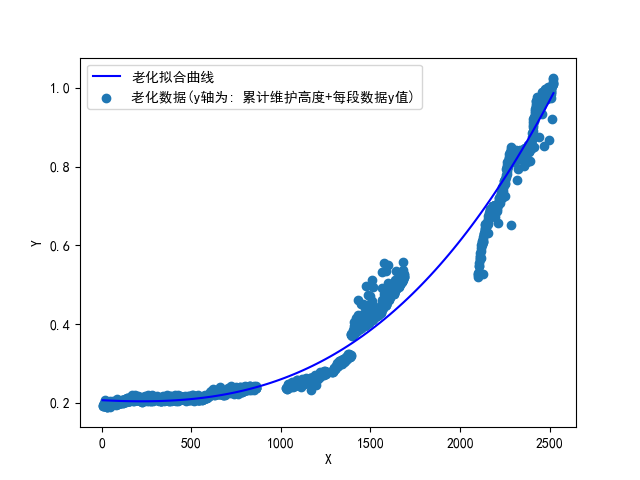
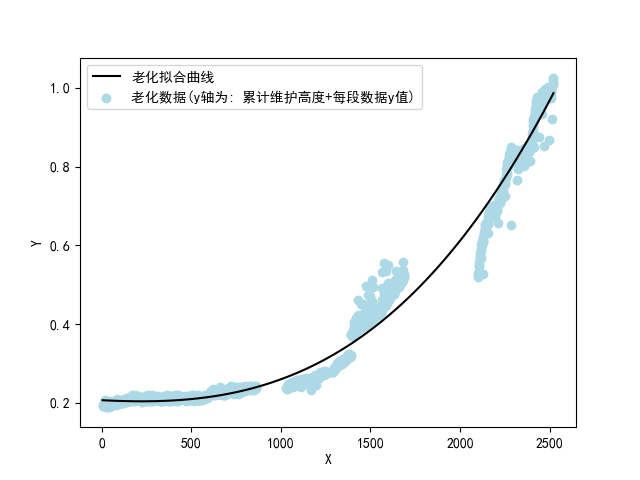
斜率计算

Changed region(s): [[0.1562, 0.5312, 0.6875, 0.875], [0.6875, 0.1562, 0.875, 0.5938], [0.1562, 0.1562, 0.1875, 0.2188]]

diff --git a/test.py b/test.py
@@ -2,90 +2,136 @@ import pandas as pd
 import numpy as np
 import matplotlib.pyplot as plt
 import function as F
-from scipy.interpolate import CubicSpline
 from scipy.optimize import curve_fit
 from pyswarm import pso
+
 # 设置字体
 from pylab import mpl
-mpl.rcParams['font.sans-serif']=['SimHei']
-mpl.rcParams['axes.unicode_minus']=False
+mpl.rcParams['font.sans-serif'] = ['SimHei']
+mpl.rcParams['axes.unicode_minus'] = False
 
 # 读取Excel文件
 data = pd.read_excel('data/C1.xlsx')
 
-# 第1~11个大段 (0~285)，并删除每段的离群点
-data_1 = data.iloc[0:287]; data_1 = data_1.dropna(); data_1 = F.Remove_outliers(data_1)
-data_2 = data.iloc[293:592]; data_2 = data_2.dropna(); data_2 = F.Remove_outliers(data_2)
-data_3 = data.iloc[592:856]; data_3 = data_3.dropna(); data_3 = F.Remove_outliers(data_3)
-data_4 = data.iloc[860:1018]; data_4 = data_4.dropna(); data_4 = F.Remove_outliers(data_4)
-data_5 = data.iloc[1022:1251];data_5 = data_5.dropna();data_5 = F.Remove_outliers(data_5)
-data_6 = data.iloc[1279:1685];data_6 = data_6.dropna(); data_6 = F.Remove_outliers(data_6)
-data_7 = data.iloc[1724:1882]; data_7 = data_7.dropna(); data_7 = F.Remove_outliers(data_7)
-data_8 = data.iloc[1892:2071];data_8 = data_8.dropna(); data_8 = F.Remove_outliers(data_8)
-data_9 = data.iloc[2078:2515]; data_9 = data_9.dropna(); data_9 = F.Remove_outliers(data_9)
-data_10 = data.iloc[2539:2734]; data_10 = data_10.dropna(); data_10 = F.Remove_outliers(data_10)
-data_11 = data.iloc[2738:2919];data_11 = data_11.dropna(); data_11 = F.Remove_outliers(data_11)
+# 删除每段的离群点并进行数据清洗
+data_segments = []
+for segment in [(0, 287), (293, 592), (592, 856), (860, 1018), (1022, 1251), (1279, 1685), (1724, 1882), (1892, 2071), (2078, 2515), (2539, 2734), (2738, 2919)]:
+    segment_data = data.iloc[segment[0]:segment[1]].dropna()
+    segment_data = F.Remove_outliers(segment_data)
+    data_segments.append(segment_data)
 
-# 拟合计入维护距离的实际性能曲线, 用1, 2, 3, 5, 6, 9段曲线
-age_x = np.concatenate([data_1.iloc[:,0], data_2.iloc[:,0], data_3.iloc[:,0], data_5.iloc[:,0], data_6.iloc[:,0], data_9.iloc[:,0]])
-age_y = np.concatenate([data_1.iloc[:,1],
-         data_2.iloc[:,1] + (data_1.iloc[-1,1] - data_2.iloc[0,1]),
-         data_3.iloc[:,1] + (data_1.iloc[-1,1] - data_2.iloc[0,1] + data_2.iloc[-1,1] - data_3.iloc[0,1]),
-         data_5.iloc[:,1] + (data_1.iloc[-1,1] - data_2.iloc[0,1] + data_2.iloc[-1,1] - data_3.iloc[0,1] + data_3.iloc[-1,1] - data_5.iloc[0,1]),
-         data_6.iloc[:,1] + (data_1.iloc[-1,1] - data_2.iloc[0,1] + data_2.iloc[-1,1] - data_3.iloc[0,1] + data_3.iloc[-1,1] - data_5.iloc[0,1] + data_5.iloc[-1,1] - data_6.iloc[0,1]),
-         data_9.iloc[:,1] + (data_1.iloc[-1,1] - data_2.iloc[0,1] + data_2.iloc[-1,1] - data_3.iloc[0,1] + data_3.iloc[-1,1] - data_5.iloc[0,1] + data_5.iloc[-1,1] - data_6.iloc[0,1] + data_6.iloc[-1,1] - data_9.iloc[0,1])])
+# 处理需要拟合的段（1, 2, 3, 5, 6, 9段）的数据
+age_x = np.concatenate([data_segments[i].iloc[:, 0] for i in [0, 1, 2, 4, 5, 8]])
+age_y = np.concatenate([
+    data_segments[0].iloc[:, 1],
+    data_segments[1].iloc[:, 1] + (data_segments[0].iloc[-1, 1] - data_segments[1].iloc[0, 1]),
+    data_segments[2].iloc[:, 1] + (data_segments[0].iloc[-1, 1] - data_segments[1].iloc[0, 1] + data_segments[1].iloc[-1, 1] - data_segments[2].iloc[0, 1]),
+    data_segments[4].iloc[:, 1] + (data_segments[0].iloc[-1, 1] - data_segments[1].iloc[0, 1] + data_segments[1].iloc[-1, 1] - data_segments[2].iloc[0, 1] + data_segments[2].iloc[-1, 1] - data_segments[4].iloc[0, 1]),
+    data_segments[5].iloc[:, 1] + (data_segments[0].iloc[-1, 1] - data_segments[1].iloc[0, 1] + data_segments[1].iloc[-1, 1] - data_segments[2].iloc[0, 1] + data_segments[2].iloc[-1, 1] - data_segments[4].iloc[0, 1] + data_segments[4].iloc[-1, 1] - data_segments[5].iloc[0, 1]),
+    data_segments[8].iloc[:, 1] + (data_segments[0].iloc[-1, 1] - data_segments[1].iloc[0, 1] + data_segments[1].iloc[-1, 1] - data_segments[2].iloc[0, 1] + data_segments[2].iloc[-1, 1] - data_segments[4].iloc[0, 1] + data_segments[4].iloc[-1, 1] - data_segments[5].iloc[0, 1] + data_segments[5].iloc[-1, 1] - data_segments[8].iloc[0, 1])
+])
 
 # 将数据转换为np.array
-age_x = np.array(age_x); age_y = np.array(age_y)
+age_x = np.array(age_x)
+age_y = np.array(age_y)
 
 # 用数据拟合模型
 age_params, age_params_covariance = curve_fit(F.model_func, age_x, age_y)
 age_x_fit = np.linspace(min(age_x), max(age_x), 100)
 age_y_fit = F.model_func(age_x_fit, *age_params)
 
-# 画出数据点, 画出拟合曲线
-plt.scatter(age_x, age_y, label='老化数据(y轴为: 累计维护高度+每段数据y值)')
-plt.plot(age_x_fit, age_y_fit, color='blue', label='老化拟合曲线')
+# 画出数据点和拟合曲线
+plt.scatter(age_x, age_y, label='老化数据(y轴为: 累计维护高度+每段数据y值)', color='lightblue')
+plt.plot(age_x_fit, age_y_fit, color='black', label='老化拟合曲线')
 
-# 添加标签和图例, 并做图, 然后保存到figure文件中
-plt.xlabel('X'); plt.ylabel('Y'); plt.legend()
+# 添加标签和图例
+plt.xlabel('X')
+plt.ylabel('Y')
+plt.legend()
 plt.savefig('figure/123569段数据清洗后拟合性能趋势图')
 plt.show()
 
-# 计算每次维护后delta_x的位移量(因为有6段数据，所以共5个位移量), 为了保证位移量为正，前面加上负号。
-# 例如对于3->5段的位移量: 计算方式为: delta_x3_x5 = -(第3段最后一点的x - 第5段第一点的x)
-delta_x1_x2 = -(data_1.iloc[-1,0] - data_2.iloc[0,0])
-delta_x2_x3 = -(data_2.iloc[-1,0] - data_3.iloc[0,0])
-delta_x3_x5 = -(data_3.iloc[-1,0] - data_5.iloc[0,0])
-delta_x5_x6 = -(data_5.iloc[-1,0] - data_6.iloc[0,0])
-delta_x6_x9 = -(data_6.iloc[-1,0] - data_9.iloc[0,0])
+# 计算每次维护后delta_x的位移量
+delta_x = [
+    -(data_segments[i].iloc[-1, 0] - data_segments[i + 1].iloc[0, 0])
+    for i in [0, 1, 2, 4, 5]
+]
 print('第1~2, 2~3, 3~5, 5~6, 6~9段位移量分别为')
-print(delta_x1_x2, '$$', delta_x2_x3, '$$',delta_x3_x5, '$$',delta_x5_x6, '$$',delta_x6_x9)
+print(delta_x)
 print('===============================================')
 
-# 下面计算回推的delta_x, 例子: 首先计算第3段的末尾点和第5段的起始点的y坐标之差, 之后,将其映射到前面拟合好的f(x)中，从而计算delta_x
-# 具体计算方案请参考 'figure/每一段回推的delta_x的计算方式.png'
-# 这里要仔细考虑当前delta_y对应的坐标位置, 不能直接将delta_y带入, 而需要带入累计的 y坐标值+delta_y, 然后求反函数， 计算对应的delta_x
-
-# 首先计算 delta_y, 即第3段末尾与第5段起始点的y坐标之差
-delta_y1_y2 = data_1.iloc[-1,1] - data_2.iloc[0,1]
-delta_y2_y3 = data_2.iloc[-1,1] - data_3.iloc[0,1]
-delta_y3_y5 = data_3.iloc[-1,1] - data_5.iloc[0,1]
-delta_y5_y6 = data_5.iloc[-1,1] - data_6.iloc[0,1]
-delta_y6_y9 = data_6.iloc[-1,1] - data_9.iloc[0,1]
-#print(delta_y1_y2)
+# 计算回推的delta_t, 即delta_x
+delta_y = [
+    data_segments[i].iloc[-1, 1] - data_segments[i + 1].iloc[0, 1]
+    for i in [0, 1, 2, 4, 5]
+]
 
 # 用PSO算法求解最优的delta_t值
-x_value = [data_2.iloc[0,0], data_3.iloc[0,0], data_5.iloc[0,0], data_6.iloc[0,0], data_9.iloc[0,0]]
-delta_y = [delta_y1_y2, delta_y2_y3, delta_y3_y5, delta_y5_y6, delta_y6_y9]
-
-# 使用 PSO 进行优化
+x_value = [data_segments[i].iloc[0, 0] for i in [1, 2, 4, 5, 8]]
 lb = [0]  # t 的下界
 ub = [1000]  # t 的上界（根据实际情况调整）
 
-# 调用 PSO 进行优化
 optimal_t, optimal_g = pso(lambda t: F.g(t, x_value, delta_y, *age_params), lb, ub)
 print('使用PSO算法求解最优回退时间与最小误差')
 print('最优回退时间', optimal_t, '最优误差', optimal_g)
 print('===============================================')
 
+# 拟合第4, 7, 10, 11段的斜率，用局部的点来拟合
+local_segments = [data_segments[i].iloc[0:30] for i in [3, 6, 9, 10]]
+
+# 使用numpy进行线性拟合
+coefficients = [np.polyfit(segment['时间'], segment['性能'], 1) for segment in local_segments]
+print(f'清洗后数据集{4}的局部斜率: {coefficients[0][0]}')
+print(f'清洗后数据集{7}的局部斜率: {coefficients[1][0]}')
+print(f'清洗后数据集{10}的局部斜率: {coefficients[2][0]}')
+print(f'清洗后数据集{11}的局部斜率: {coefficients[3][0]}')
+polys = [np.poly1d(coef) for coef in coefficients]
+print('===============================================')
+
+colors = ['blue', 'cyan']
+
+for i, segment in enumerate([3, 6, 9, 10]):
+    plt.scatter(data_segments[segment]['时间'], data_segments[segment]['性能'], label=f'数据集{segment + 1}全部点', color='blue')
+    plt.scatter(local_segments[i]['时间'], local_segments[i]['性能'], label=f'数据集{segment + 1}局部点', color='cyan')
+    plt.plot(local_segments[i]['时间'], polys[i](local_segments[i]['时间']), label=f'拟合曲线{segment + 1}', color='black')
+
+plt.xlabel('时间'); plt.ylabel('性能')
+plt.legend()
+plt.savefig('figure/在清洗数据后得到的第4_7_10_11段起始点的斜率')
+plt.show()
+
+# 下面计算拟合曲线在3, 6, 9, 10段的末尾点的斜率(直接代入末尾点的x坐标算就行), 前面拟合的是4, 7, 10, 11起始点的局部斜率(取了30个点)
+data_3_end_x = data_segments[2].iloc[-1,0]; data_6_end_x = data_segments[5].iloc[-1,0]
+data_9_end_x = data_segments[8].iloc[-1,0]; data_10_end_x = data_segments[9].iloc[-1,0]
+data_3_end_slope = F.derivative_model_func(data_3_end_x, *age_params); data_6_end_slope = F.derivative_model_func(data_6_end_x, *age_params)
+data_9_end_slope = F.derivative_model_func(data_9_end_x, *age_params); data_10_end_slope = F.derivative_model_func(data_10_end_x, *age_params)
+
+# 画出数据点和拟合曲线
+plt.scatter(age_x, age_y, label='老化数据(y轴为: 累计维护高度+每段数据y值)', color='lightblue')
+plt.plot(age_x_fit, age_y_fit, color='black', label='老化拟合曲线')
+
+# 绘制这四点和它们的导数
+points_x = [data_3_end_x, data_6_end_x, data_9_end_x, data_10_end_x]
+points_y = [F.model_func(x, *age_params) for x in points_x]
+slopes = [data_3_end_slope, data_6_end_slope, data_9_end_slope, data_10_end_slope]
+
+for (px, py, slope) in zip(points_x, points_y, slopes):
+    plt.scatter(px, py, color='red')  # 点的位置
+    x_range = np.linspace(px - 10, px + 10, 100)
+    y_range = slope * (x_range - px) + py
+    plt.plot(x_range, y_range, color='red')  # 绘制导数直线
+
+# 添加标签和图例
+plt.xlabel('X')
+plt.ylabel('Y')
+plt.legend()
+plt.savefig('figure/123569段数据清洗后拟合性能趋势图_带导数')
+plt.show()
+
+# 输出导数值
+print('拟合曲线在第3, 6, 9, 10段的末尾点的x坐标和斜率分别为:')
+print(f'data_3_end_x = {data_3_end_x}, 斜率 = {data_3_end_slope}')
+print(f'data_6_end_x = {data_6_end_x}, 斜率 = {data_6_end_slope}')
+print(f'data_9_end_x = {data_9_end_x}, 斜率 = {data_9_end_slope}')
+print(f'data_10_end_x = {data_10_end_x}, 斜率 = {data_10_end_slope}')
+print('===============================================')

diff --git a/function.py b/function.py
@@ -17,6 +17,8 @@ def Remove_outliers(data):
 # 定义模型函数，例如，三次函数(可修改)
 def model_func(x, a, b, c, d):
     return a * x**3 + b * x**2 + c * x + d
+def derivative_model_func(x, a, b, c, d):
+    return 3 * a * x**2 + 2 * b * x + c
 
 # 定义目标函数 g(t)
 def g(t, x_value, delta_y, a, b, c, d):
